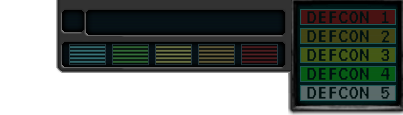
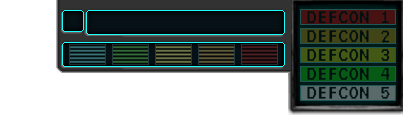
v0.011 	modified:   CountriesManager.py 	modified:   Main.py 	modified:   MenuManager.py 	modified:   __pycache__/CountriesManager.cpython-311.pyc 	modified:   __pycache__/MenuManager.cpython-311.pyc 	modified:   __pycache__/PygameManager.cpython-311.pyc 	new file:   gfx/Interface/game_HUD/top_bar_f

diff --git a/MenuManager.py b/MenuManager.py
@@ -1,5 +1,4 @@
-from PIL import Image
-from numpy import array as numpy_array
+
 import GenericUtilitys
 from PygameManager import pygame
 
@@ -1070,7 +1069,7 @@ class Country_Selection_Flag_Selection_Menu:
 
 		self.normal_scalable_font = GenericUtilitys.ScalableFont('Aldrich.ttf', int(30 * self.factor_y))
 		self.small_scalable_font = GenericUtilitys.ScalableFont('Aldrich.ttf', int(18 * self.factor_y))		
-		self.tiny_scalable_font = GenericUtilitys.ScalableFont('Aldrich.ttf', int(14 * self.factor_y))
+		self.small_scalable_font = GenericUtilitys.ScalableFont('Aldrich.ttf', int(14 * self.factor_y))
 
 
 		self.hover_over_button_sound, self.click_sound = generic_hover_over_button_menu_sound, generic_click_menu_sound
@@ -1127,7 +1126,7 @@ class Country_Selection_Flag_Selection_Menu:
 					if country_name_text.get_width() > 300 * self.factor_x:
 						country_name_text = self.small_scalable_font.render(self.selected_country_name, True, (255, 255, 255))
 					if country_name_text.get_width() > 300 * self.factor_x:
-						country_name_text = self.tiny_scalable_font.render(self.selected_country_name, True, (255, 255, 255))						
+						country_name_text = self.small_scalable_font.render(self.selected_country_name, True, (255, 255, 255))						
 
 					text_position = (self.screen_width/2 - country_name_text.get_width()/1.95, self.screen_height - self.country_info_display_background.get_height() + self.country_info_display_background.get_height() * 0.079 - country_name_text.get_height() /2)
 					screen.blit(country_name_text, text_position)
@@ -1138,7 +1137,7 @@ class Country_Selection_Flag_Selection_Menu:
 					leader_name = countries_with_selected_ideology[rect[2]].country_leader_name
 					leader_name_text = self.small_scalable_font.render(leader_name, True, (255, 255, 255))
 					if leader_name_text.get_width() > 265 * self.factor_x:
-						leader_name_text = self.tiny_scalable_font.render(leader_name, True, (255, 255, 255))
+						leader_name_text = self.small_scalable_font.render(leader_name, True, (255, 255, 255))
 
 					text_position = (66 * self.factor_x + country_info_display_background_position[0], 77 * self.factor_y + country_info_display_background_position[1])
 					screen.blit(leader_name_text, text_position)
@@ -1147,7 +1146,7 @@ class Country_Selection_Flag_Selection_Menu:
 					ruling_party_name = countries_with_selected_ideology[rect[2]].country_ruling_party
 					ruling_party_name_text = self.small_scalable_font.render(ruling_party_name, True, (255, 255, 255))
 					if ruling_party_name_text.get_width() > 265 * self.factor_x:
-						ruling_party_name_text = self.tiny_scalable_font.render(ruling_party_name, True, (255, 255, 255))
+						ruling_party_name_text = self.small_scalable_font.render(ruling_party_name, True, (255, 255, 255))
 					
 					text_position = (66 * self.factor_x + country_info_display_background_position[0], 143 * self.factor_y + country_info_display_background_position[1])
 					screen.blit(ruling_party_name_text, text_position)		
@@ -1156,7 +1155,7 @@ class Country_Selection_Flag_Selection_Menu:
 					government_name_text = countries_with_selected_ideology[rect[2]].country_government
 					government_name_text = self.small_scalable_font.render(government_name_text, True, (255, 255, 255))
 					if government_name_text.get_width() > 265 * self.factor_x:
-						government_name_text = self.tiny_scalable_font.render(government_name_text, True, (255, 255, 255))
+						government_name_text = self.small_scalable_font.render(government_name_text, True, (255, 255, 255))
 					
 					text_position = (66 * self.factor_x + country_info_display_background_position[0], 209 * self.factor_y + country_info_display_background_position[1])
 					screen.blit(government_name_text, text_position)		
@@ -1165,14 +1164,14 @@ class Country_Selection_Flag_Selection_Menu:
 					elections_name = countries_with_selected_ideology[rect[2]].country_elections
 					elections_name_text = self.small_scalable_font.render(elections_name, True, (255, 255, 255))
 					if elections_name_text.get_width() > 265 * self.factor_x:
-						elections_name_text = self.tiny_scalable_font.render(elections_name, True, (255, 255, 255))
+						elections_name_text = self.small_scalable_font.render(elections_name, True, (255, 255, 255))
 					
 					text_position = (165 * self.factor_x + country_info_display_background_position[0], 252 * self.factor_y + country_info_display_background_position[1])
 					screen.blit(elections_name_text, text_position)															
 
 					# BRIEF HISTORY
 					brief_history_name = countries_with_selected_ideology[rect[2]].country_brief_history
-					brief_history_name_text = self.tiny_scalable_font.render(brief_history_name, True, (255, 255, 255))
+					brief_history_name_text = self.small_scalable_font.render(brief_history_name, True, (255, 255, 255))
 					
 					text_position = (920 * self.factor_x + country_info_display_background_position[0], 65 * self.factor_y + country_info_display_background_position[1])
 					screen.blit(brief_history_name_text, text_position)		
@@ -1252,7 +1251,7 @@ class Country_Selection_National_Spirits_Selection_Menu:
 		self.big_scalable_font = GenericUtilitys.ScalableFont('Aldrich.ttf', int(32 * self.factor_y))
 		self.normal_scalable_font = GenericUtilitys.ScalableFont('Aldrich.ttf', int(26.6 * self.factor_y))
 		self.small_scalable_font = GenericUtilitys.ScalableFont('Aldrich.ttf', int(20 * self.factor_y))
-		self.tiny_scalable_font = GenericUtilitys.ScalableFont('Aldrich.ttf', int(16 * self.factor_y))		
+		self.small_scalable_font = GenericUtilitys.ScalableFont('Aldrich.ttf', int(16 * self.factor_y))		
 
 		self.color_cache = {}
 		self.color_timer = 0
@@ -1351,7 +1350,7 @@ class Country_Selection_National_Spirits_Selection_Menu:
 
 
 		if self.hovered_national_spirit != None:
-			national_spirit_description_text = self.tiny_scalable_font.render(self.hovered_national_spirit.national_spirit_description, True, (255, 255, 255))
+			national_spirit_description_text = self.small_scalable_font.render(self.hovered_national_spirit.national_spirit_description, True, (255, 255, 255))
 			text_position = (534 * self.factor_x, 132 * self.factor_y)
 
 			pygame.draw.rect(screen, (6,15,20), (525 * self.factor_x, 125 * self.factor_y, 495 * self.factor_x, national_spirit_description_text.get_height() + 10 * self.factor_y))
@@ -1361,7 +1360,8 @@ class Country_Selection_National_Spirits_Selection_Menu:
 
 
 class Game_Screen:
-	def __init__(self, screen_width, screen_height, pygame, top_bar_right_background, top_bar_game_speed_indicator, top_bar_defcon_level):
+	def __init__(self, screen_width, screen_height, pygame, top_bar_right_background, top_bar_game_speed_indicator, top_bar_defcon_level, top_bar_left_background,
+			top_bar_flag_overlay, top_bar_flag_overlay_hovering_over):
 		self.screen_width = screen_width 
 		self.screen_height = screen_height
 
@@ -1371,17 +1371,26 @@ class Game_Screen:
 		self.factor_y = screen_height / reference_screen_size_y
 		self.factor = self.factor_x * self.factor_y
 
+		self.PlayerCountry = None
+		self.highlight_country_viewer_button = False
+		self.is_top_bar_country_viewer_open = False
 
 		self.top_bar_right_background = pygame.transform.smoothscale_by(top_bar_right_background, (self.factor_x, self.factor_y))
 		self.top_bar_game_speed_indicator = pygame.transform.smoothscale_by(top_bar_game_speed_indicator, (self.factor_x, self.factor_y))
 		self.top_bar_defcon_level = pygame.transform.smoothscale_by(top_bar_defcon_level, (self.factor_x, self.factor_y))
 
+		self.top_bar_left_background = pygame.transform.smoothscale_by(top_bar_left_background, (self.factor_x, self.factor_y))
+		self.top_bar_flag_overlay = pygame.transform.smoothscale_by(top_bar_flag_overlay, (self.factor_x, self.factor_y))
+		self.top_bar_flag_overlay_hovering_over	= pygame.transform.smoothscale_by(top_bar_flag_overlay_hovering_over, (self.factor_x, self.factor_y))	 
+
 		self.pygame = pygame
+
+		self.info_height = 9 * self.factor_y
 
 		self.big_scalable_font = GenericUtilitys.ScalableFont('Aldrich.ttf', int(22 * self.factor_y))
 		self.medium_scalable_font = GenericUtilitys.ScalableFont('Aldrich.ttf', int(16 * self.factor_y))
 		self.small_scalable_font = GenericUtilitys.ScalableFont('Aldrich.ttf', int(14 * self.factor_y))	
-		self.tiny_scalable_font = GenericUtilitys.ScalableFont('Aldrich.ttf', int(10 * self.factor_y))	
+		self.tiny_scalable_font = GenericUtilitys.ScalableFont('Aldrich.ttf', int(12 * self.factor_y))	
 
 		self.game_speed = 1	
 		self.defcon_level = 5
@@ -1444,7 +1453,113 @@ class Game_Screen:
 						self.current_month = 1
 						self.current_year += 1
 
+
 	def draw(self, screen):
+		screen.blit(self.top_bar_left_background, (0 * self.factor_x, 0 * self.factor_y))
+		if self.PlayerCountry.country_flag_image.get_size() != self.top_bar_flag_overlay.get_size():
+			self.PlayerCountry.country_flag_image = self.pygame.transform.smoothscale(self.PlayerCountry.country_flag_image, (115 * self.factor_x, 66 * self.factor_y))
+		screen.blit(self.PlayerCountry.country_flag_image, (6 * self.factor_x, 6 * self.factor_y))
+
+		if self.highlight_country_viewer_button == False and self.is_top_bar_country_viewer_open == False:
+			screen.blit(self.top_bar_flag_overlay, (2 * self.factor_x, 2 * self.factor_y))
+		else:
+			screen.blit(self.top_bar_flag_overlay_hovering_over, (2 * self.factor_x, 2 * self.factor_y))
+
+
+		# TOP BAR INFOS
+
+		## STABILITY
+		text_country_stability = self.medium_scalable_font.render(str(self.PlayerCountry.country_stability)+'%', True, (255, 255, 255))
+		text_country_stability_position = (165 * self.factor_x, self.info_height)	
+		screen.blit(text_country_stability, text_country_stability_position)
+		## WAR SUPPORT
+		text_country_war_support = self.medium_scalable_font.render(str(self.PlayerCountry.country_war_support)+'%', True, (255, 255, 255))
+		text_country_war_support_position = (265 * self.factor_x, self.info_height)	
+		screen.blit(text_country_war_support, text_country_war_support_position)
+		## PARTY POPULARITY
+		text_country_party_popularity = self.medium_scalable_font.render(str(self.PlayerCountry.country_party_popularity)+'%', True, (255, 255, 255))
+		text_country_party_popularity_position = (350 * self.factor_x, self.info_height)	
+		screen.blit(text_country_party_popularity, text_country_party_popularity_position)	
+
+		## LAND MANPOWER
+		manpower = self.PlayerCountry.country_land_manpower
+		if manpower >= 1000000:
+			formatted_manpower = f'{manpower / 1000000:.1f}m'
+		elif manpower >= 1000:
+			formatted_manpower = f'{manpower / 1000:.1f}k'
+		else:
+			formatted_manpower = str(manpower)
+	
+		text_country_land_manpower = self.medium_scalable_font.render(formatted_manpower, True, (255, 255, 255))
+		text_country_land_manpower_position = (446 * self.factor_x, self.info_height)	
+		screen.blit(text_country_land_manpower, text_country_land_manpower_position)
+		
+		## AIR MANPOWER
+		manpower = self.PlayerCountry.country_air_manpower
+		if manpower >= 1000000:
+			formatted_manpower = f'{manpower / 1000000:.1f}m'
+		elif manpower >= 1000:
+			formatted_manpower = f'{manpower / 1000:.1f}k'
+		else:
+			formatted_manpower = str(manpower)
+
+		text_country_air_manpower = self.medium_scalable_font.render(formatted_manpower, True, (255, 255, 255))
+		text_country_air_manpower_position = (563 * self.factor_x, self.info_height)	
+		screen.blit(text_country_air_manpower, text_country_air_manpower_position)
+
+		## COUNTRY GDP
+		GDP = self.PlayerCountry.country_GDP
+		if abs(GDP) < 1e6:
+			formatted_GDP = f"GDP:  ${GDP:,.2f}"
+		elif abs(GDP) < 1e9:
+			formatted_GDP = f"GDP:  ${GDP / 1e6:.2f}M"
+		elif abs(GDP) < 1e12:
+			formatted_GDP = f"GDP:  ${GDP / 1e9:.2f}B"
+		elif abs(GDP) < 1e15:
+			formatted_GDP = f"GDP:  ${GDP / 1e12:.2f}T"
+		else:
+			formatted_GDP = f"GDP:  ${GDP:.2f}"
+			
+		text_country_GDP = self.medium_scalable_font.render(formatted_GDP, True, (255, 255, 255))
+		text_country_GDP_position = (715 * self.factor_x, self.info_height)	
+		screen.blit(text_country_GDP, text_country_GDP_position)	
+
+
+		## INCOME
+		income = self.PlayerCountry.income
+		if abs(income) < 1e6:
+			formatted_money = f"${income:,.2f}"
+		elif abs(income) < 1e9:
+			formatted_money = f"${income / 1e6:.2f}M"
+		elif abs(income) < 1e12:
+			formatted_money = f"${income / 1e9:.2f}B"
+		elif abs(income) < 1e15:
+			formatted_money = f"${income / 1e12:.2f}T"
+		else:
+			formatted_money = f"${income:.2f}"
+		
+		text_income = self.small_scalable_font.render(formatted_money, True, (255, 255, 255))
+		text_income_position = (748 * self.factor_x, 40 * self.factor_y)	
+		screen.blit(text_income, text_income_position)
+
+		## EXPENSES
+		expenses = self.PlayerCountry.expenses
+		if abs(expenses) < 1e6:
+			formatted_money = f"${expenses:,.2f}"
+		elif abs(expenses) < 1e9:
+			formatted_money = f"${expenses / 1e6:.2f}M"
+		elif abs(expenses) < 1e12:
+			formatted_money = f"${expenses / 1e9:.2f}B"
+		elif abs(expenses) < 1e15:
+			formatted_money = f"${expenses / 1e12:.2f}T"
+		else:
+			formatted_money = f"${expenses:.2f}"
+		
+		text_expenses = self.small_scalable_font.render(formatted_money, True, (255, 255, 255))
+		text_expenses_position = (748 * self.factor_x, 59 * self.factor_y)	
+		screen.blit(text_expenses, text_expenses_position)
+
+
 		screen.blit(self.top_bar_right_background, (self.screen_width - self.top_bar_right_background.get_width(), 0))
 
 		
@@ -1475,11 +1590,12 @@ class Game_Screen:
 		month_date_render = self.medium_scalable_font.render(month_date_text, True, date_font_color)
 		year_date_render = self.medium_scalable_font.render(year_date_text, True, date_font_color)
 
-		date_x_position = self.screen_width - 318 * self.factor_x
+		date_x_position = self.screen_width - 312 * self.factor_x
 		date_y_position = 17 * self.factor_y
 
 		screen.blit(hour_date_render, ((date_x_position + max(0, 42 - hour_date_render.get_width()))* self.factor_x, date_y_position))
 		screen.blit(day_date_render, ((date_x_position + 48 + max(0, 38 - day_date_render.get_width()))* self.factor_x, date_y_position))
 		screen.blit(month_date_render, ((date_x_position + 88 + max(0, 41 - month_date_render.get_width()))* self.factor_x, date_y_position))
 		screen.blit(year_date_render, (date_x_position + 135 * self.factor_x, date_y_position))
-							
+
+

diff --git a/Main.py b/Main.py
@@ -156,7 +156,9 @@ class Main:
 		self.top_bar_right_background = self.pygame.image.load(os.path.join(self.game_HUD_folder, 'top_bar_right_background.png')).convert_alpha()
 		self.top_bar_game_speed_indicator = self.pygame.image.load(os.path.join(self.game_HUD_folder, 'top_bar_game_speed_indicator.png')).convert_alpha()
 		self.top_bar_defcon_levels = self.pygame.image.load(os.path.join(self.game_HUD_folder, 'defcon_levels.png')).convert_alpha()		
-
+		self.top_bar_left_background = self.pygame.image.load(os.path.join(self.game_HUD_folder, 'top_bar_left_background.png')).convert_alpha()
+		self.top_bar_flag_overlay = self.pygame.image.load(os.path.join(self.game_HUD_folder, 'top_bar_flag_overlay.png')).convert_alpha()
+		self.top_bar_flag_overlay_hovering_over = self.pygame.image.load(os.path.join(self.game_HUD_folder, 'top_bar_flag_overlay_hovering_over.png')).convert_alpha()		
 
 		self.ideas_folder = os.path.join(self.interface_folder, 'ideas')
 		
@@ -685,7 +687,8 @@ your shoulders.
 				self.hovered_red_button_menu_image, self.Options_Menu)
 		
 
-		self.Game_Screen = MenuManager.Game_Screen(self.screen_width, self.screen_height, self.pygame, self.top_bar_right_background, self.top_bar_game_speed_indicator, self.top_bar_defcon_levels)
+		self.Game_Screen = MenuManager.Game_Screen(self.screen_width, self.screen_height, self.pygame, self.top_bar_right_background, self.top_bar_game_speed_indicator,
+											self.top_bar_defcon_levels, self.top_bar_left_background, self.top_bar_flag_overlay, self.top_bar_flag_overlay_hovering_over)
 
 
 		self.Screen_Manager = ScreenManager.Screen(self.pygame, self.display, self.screen, self.surface_alfa, self.Main_Menu, self.Country_Selection_Menu,
@@ -951,6 +954,8 @@ your shoulders.
 										self.is_in_esc_menu = False
 										self.is_in_game_screen = True
 
+										self.Game_Screen.PlayerCountry = self.Country_Selection_Flag_Selection_Menu.selected_country
+
 								elif self.Country_Selection_Menu.is_flag_national_spirits_selection_menu_open == False:
 									clicked_ideology = self.Country_Selection_Menu.get_clicked_ideology(self.mouse_rect)
 
@@ -1082,7 +1087,7 @@ your shoulders.
 						elif keys[self.pygame.K_5]:
 							self.Game_Screen.game_speed = 5
 						elif keys[self.pygame.K_SPACE]:
-							self.Game_Screen.game_speed = 0
+							self.Game_Screen.game_speed = 0 if self.Game_Screen.game_speed != 0 else 1
 
 						if keys[self.pygame.K_9]:
 							self.Game_Screen.defcon_level += 1

diff --git a/CountriesManager.py b/CountriesManager.py
@@ -37,4 +37,17 @@ class Country:
         self.country_national_spirits_total_points = 10
         self.country_national_spirits_points_left = self.country_national_spirits_total_points
 
+        self.country_stability = 100
+        self.country_war_support = 100
+        self.country_party_popularity = 100
+
+        self.country_land_manpower = 150_500
+        self.country_air_manpower = 150_500
+
+        self.country_GDP = 10_550_000_000_000
+
+
+        self.income = 10_550_000_000_000
+        self.expenses = 550_600_000        
+
 
